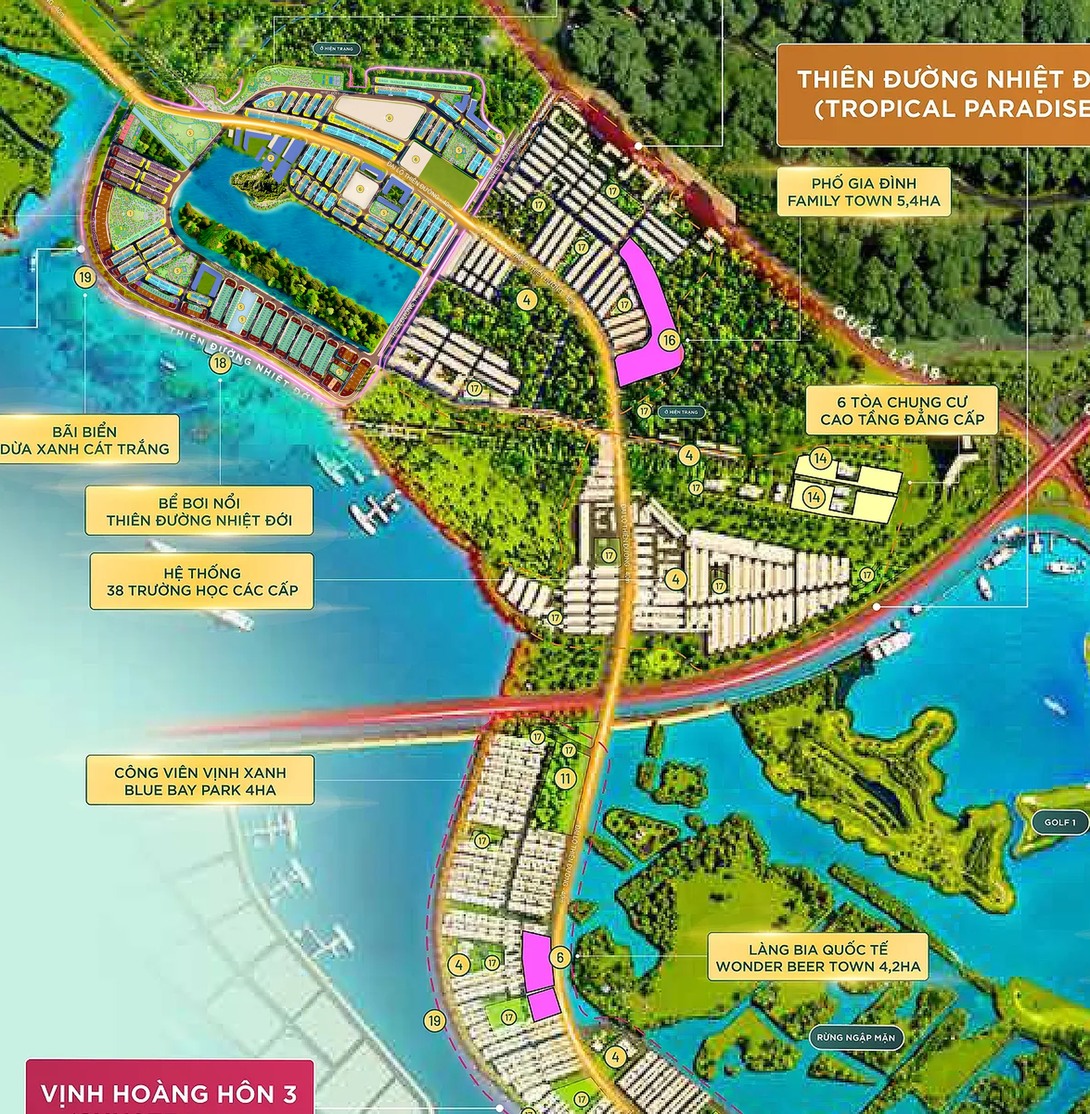
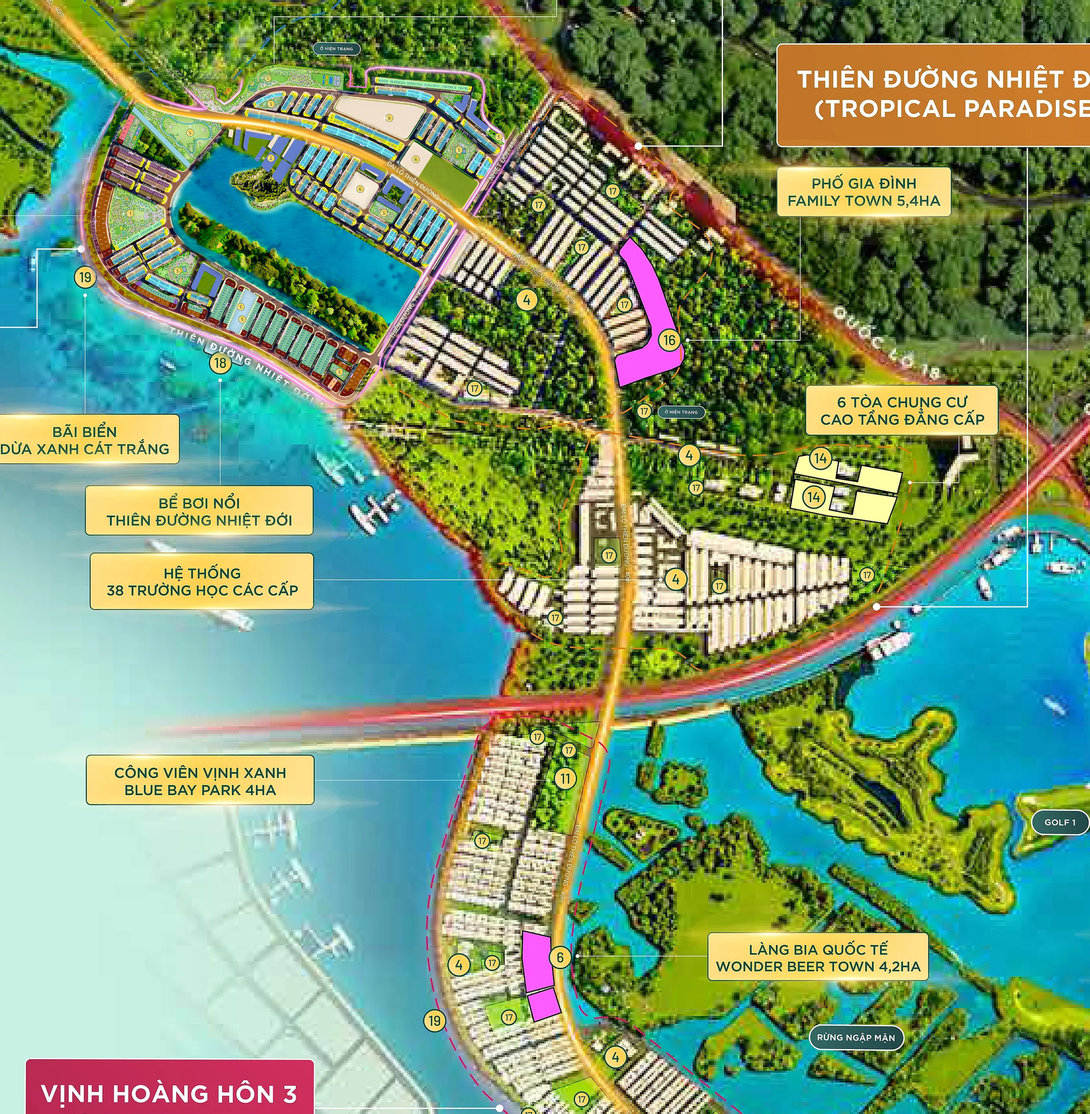
Sa bàn Hạ Long Xanh: giữ màu gốc chủ đầu tư, chỉ tô trạng thái (xanh còn hàng, vàng check admin, xám đã bán), bỏ chữ vẽ thêm, nền xung quanh nét hơn
Claude-Session: https://claude.ai/code/session_015zBji2uc7vVGeUFiJYKgf4

diff --git a/du-an/Vinhomes-Global-Gate-Ha-Long/sa-ban.js b/du-an/Vinhomes-Global-Gate-Ha-Long/sa-ban.js
@@ -15,7 +15,7 @@ const TYPE = {
   P: { name: 'Biệt thự song lập', short: 'SL', h: 12.5, roof: 0x8f86d6 },
   K: { name: 'Biệt thự đơn lập', short: 'ĐL', h: 11.5, roof: 0xf07fb5 }
 };
-const WALL = new THREE.Color(0xfbf8f2), AV = new THREE.Color(0x25b768), SD = new THREE.Color(0x8a8c90), CK = new THREE.Color(0xf5a623), DIM = new THREE.Color(0xe4e2dc), SEL = new THREE.Color(0xe31b23);
+const WALL = new THREE.Color(0xfbf8f2), AV = new THREE.Color(0x12b336), SD = new THREE.Color(0x7d8085), CK = new THREE.Color(0xffd000), DIM = new THREE.Color(0xe4e2dc), SEL = new THREE.Color(0xe31b23);
 const SRC = { MV: 'Mai Việt Land', RBS: 'RBS', MH: 'Mayhomes', TP: 'Trường Phát (CEN)', RM: 'Roman', VHS: 'VHS' }; // tên khác hiển thị nguyên văn
 const VN = n => n.toLocaleString('vi-VN');
 const ty = n => (n / 1e9).toLocaleString('vi-VN', { maximumFractionDigits: 2 }) + ' tỷ';
@@ -116,28 +116,16 @@ function inset(pts, d) {
     const t = ((x2 - x1) * b2 - (y2 - y1) * a2) / den; out.push(new THREE.Vector2(x1 + a1 * t, y1 + b1 * t)) }
   return out;
 }
-for (const [key, col] of [['av', 0x16a34a], ['ck', 0xf59e0b]]) {
-  const gs = [];
-  for (const L of lots) {
-    if (!(key === 'av' ? L.av : (L.ck && !L.av))) continue;
-    const pts = L.poly.map(([x, z]) => new THREE.Vector2(X(x), -Z(z)));
-    const d = Math.min(.8, Math.min(L.ax.len, L.ax.wid) * .14), hole = inset(pts, d);
-    const cx = L.cx, cz = -L.cz, far = hole.some(p => Math.hypot(p.x - cx, p.y - cz) > Math.hypot(L.ax.len, L.ax.wid));
-    const sh = new THREE.Shape(pts); sh.holes.push(new THREE.Path(far ? pts.map(p => new THREE.Vector2(cx + (p.x - cx) * .8, cz + (p.y - cz) * .8)) : hole));
-    const g = new THREE.ShapeGeometry(sh); g.rotateX(-Math.PI / 2); gs.push(g);
-  }
-  if (!gs.length) continue;
-  const m = new THREE.Mesh(mergeGeometries(gs, false), new THREE.MeshBasicMaterial({ color: col, transparent: true, opacity: .95, depthWrite: false, side: THREE.DoubleSide }));
-  m.position.y = .4; m.renderOrder = 2; scene.add(m); gs.forEach(g => g.dispose());
-}
 
 let mode = 'mo-ban', sel = -1, hov = -1;
 // 2D giữ màu gốc bản đồ: chỉ phủ mờ căn đã bán / căn đang chọn, căn còn hàng & check hàng có viền
 function fillOf(L) {
-  if (L.i === sel) return [SEL, .45];
-  if (L.i === hov) return [SEL, .18];
-  if (L.sd && !L.av) return [SD, .55];
-  return [SD, 0];
+  if (L.i === sel) return [SEL, .55];
+  if (L.i === hov) return [SEL, .25];
+  if (L.av) return [AV, .88];      // còn hàng: bôi xanh
+  if (L.ck) return [CK, .9];     // check admin: bôi vàng
+  if (L.sd) return [SD, .85];      // đã bán: bôi xám
+  return [SD, 0];                 // còn lại: giữ nguyên màu chủ đầu tư
 }
 function paint(L) {
   const [c, a] = fillOf(L);
@@ -191,15 +179,7 @@ function atlas(list, CW, CH, linesOf) {
     m.renderOrder = 2; scene.add(m); roofMeshes.push(m);
   }
 }
-function drawRoofs() {
-  roofMeshes.forEach(m => { scene.remove(m); m.geometry.dispose(); m.material.map.dispose(); m.material.dispose() }); roofMeshes.length = 0;
-  const qOf = L => AVL[L.code] || (L.ck ? CHK[L.code] : null);
-  const priced = mode === 'mo-ban' ? lots.filter(L => (L.av || L.ck) && tttd(qOf(L))) : [];
-  const ps = new Set(priced);
-  atlas(lots.filter(L => !ps.has(L)), 128, 40, L => [[L.code, L.sd ? '#3d3f44' : '#1c1d21', .5, .6]]);
-  // căn còn hàng: mã căn + ô đỏ giá TTTĐ; căn check hàng: ô vàng (như sa bàn Phố Hiến)
-  atlas(priced, 128, 40, L => [[L.code, '#1c1d21', .5, .6]]);
-}
+function drawRoofs() {} // mặt bằng gốc của chủ đầu tư đã có mã căn
 // ---------- biển giá nổi trên căn (như sa bàn Phố Hiến): nền trắng, viền đỏ, số giá to ----------
 const badges = [];
 { const stickR = new THREE.MeshBasicMaterial({ color: 0xd7261e }), stickY = new THREE.MeshBasicMaterial({ color: 0xf2b705 });
@@ -242,7 +222,7 @@ function addLabel(cls, text, x, y, z, minD = 0, maxD = 1e9) {
 // nhãn dãy (tiền tố) tại tâm nhóm
 const groups = new Map();
 lots.forEach(L => { const g = groups.get(L.pre) || { x: 0, z: 0, n: 0 }; g.x += L.cx; g.z += L.cz; g.n++; groups.set(L.pre, g) });
-for (const [pre, g] of groups) if (g.n >= 3) addLabel('day', pre, g.x / g.n, 22, g.z / g.n, 0, 1500);
+
 const AMEN0 = [];
 // toạ độ tiện ích theo ảnh nền 2048px -> mét
 const k2m = W / 2048;
@@ -446,9 +426,9 @@ $('quy').onclick = e => { const b = e.target.closest('button'); if (b) select(by
 
 // ---------- legend ----------
 function legend() {
-  const items = [['#16a34a', 'Còn hàng (viền xanh)', lots.filter(l => l.av).length, 1], ['#f59e0b', 'Check hàng (viền cam)', lots.filter(l => l.ck && !l.av).length, 1],
-    ['rgba(138,140,144,.6)', 'Đã bán (phủ xám)', lots.filter(l => l.sd && !l.av).length], ['transparent', 'Chưa có trên bảng hàng (màu gốc)', lots.filter(l => !l.av && !l.sd && !l.ck).length]];
-  $('lgItems').innerHTML = items.map(([c, t, n, ring]) => `<li><i style="${ring ? `background:transparent;box-shadow:inset 0 0 0 3px ${c}` : `background:${c};box-shadow:inset 0 0 0 1px #c9c4b8`}"></i>${t}<b>${VN(n)}</b></li>`).join('');
+  const items = [[AV.getStyle(), 'Còn hàng', lots.filter(l => l.av).length], [CK.getStyle(), 'Check admin', lots.filter(l => l.ck && !l.av).length],
+    [SD.getStyle(), 'Đã bán', lots.filter(l => l.sd && !l.av && !l.ck).length]];
+  $('lgItems').innerHTML = items.map(([c, t, n]) => `<li><i style="background:${c};opacity:.85"></i>${t}<b>${VN(n)}</b></li>`).join('');
 }
 // ---------- tools ----------
 let rot = false;

diff --git a/du-an/Vinhomes-Global-Gate-Ha-Long/index.html b/du-an/Vinhomes-Global-Gate-Ha-Long/index.html
@@ -225,9 +225,9 @@ button:focus-visible,a:focus-visible{outline:3px solid var(--or);outline-offset:
  </div>
 </div>
 
-<div class="legend" id="legend"><div class="lgt">Chú thích</div><ul id="lgItems"></ul><div class="tip">Kéo để di chuyển · cuộn/chụm để phóng · mã căn ghi trên mái · bấm căn để xem bảng giá</div></div>
+<div class="legend" id="legend"><div class="lgt">Chú thích</div><ul id="lgItems"></ul><div class="tip">Kéo để di chuyển · cuộn/chụm để phóng · bấm căn hoặc biển giá để xem bảng giá</div></div>
 
-<script type="module" src="sa-ban.js?v=4"></script>
+<script type="module" src="sa-ban.js?v=5"></script>
 <script type="module" src="/assets/dem-truy-cap.js?v=1"></script>
 <script src="/assets/tim-3-can-re.js?v=3" data-quy="quy-hang.json" data-ten="Hạ Long Xanh"></script>
 </body>
